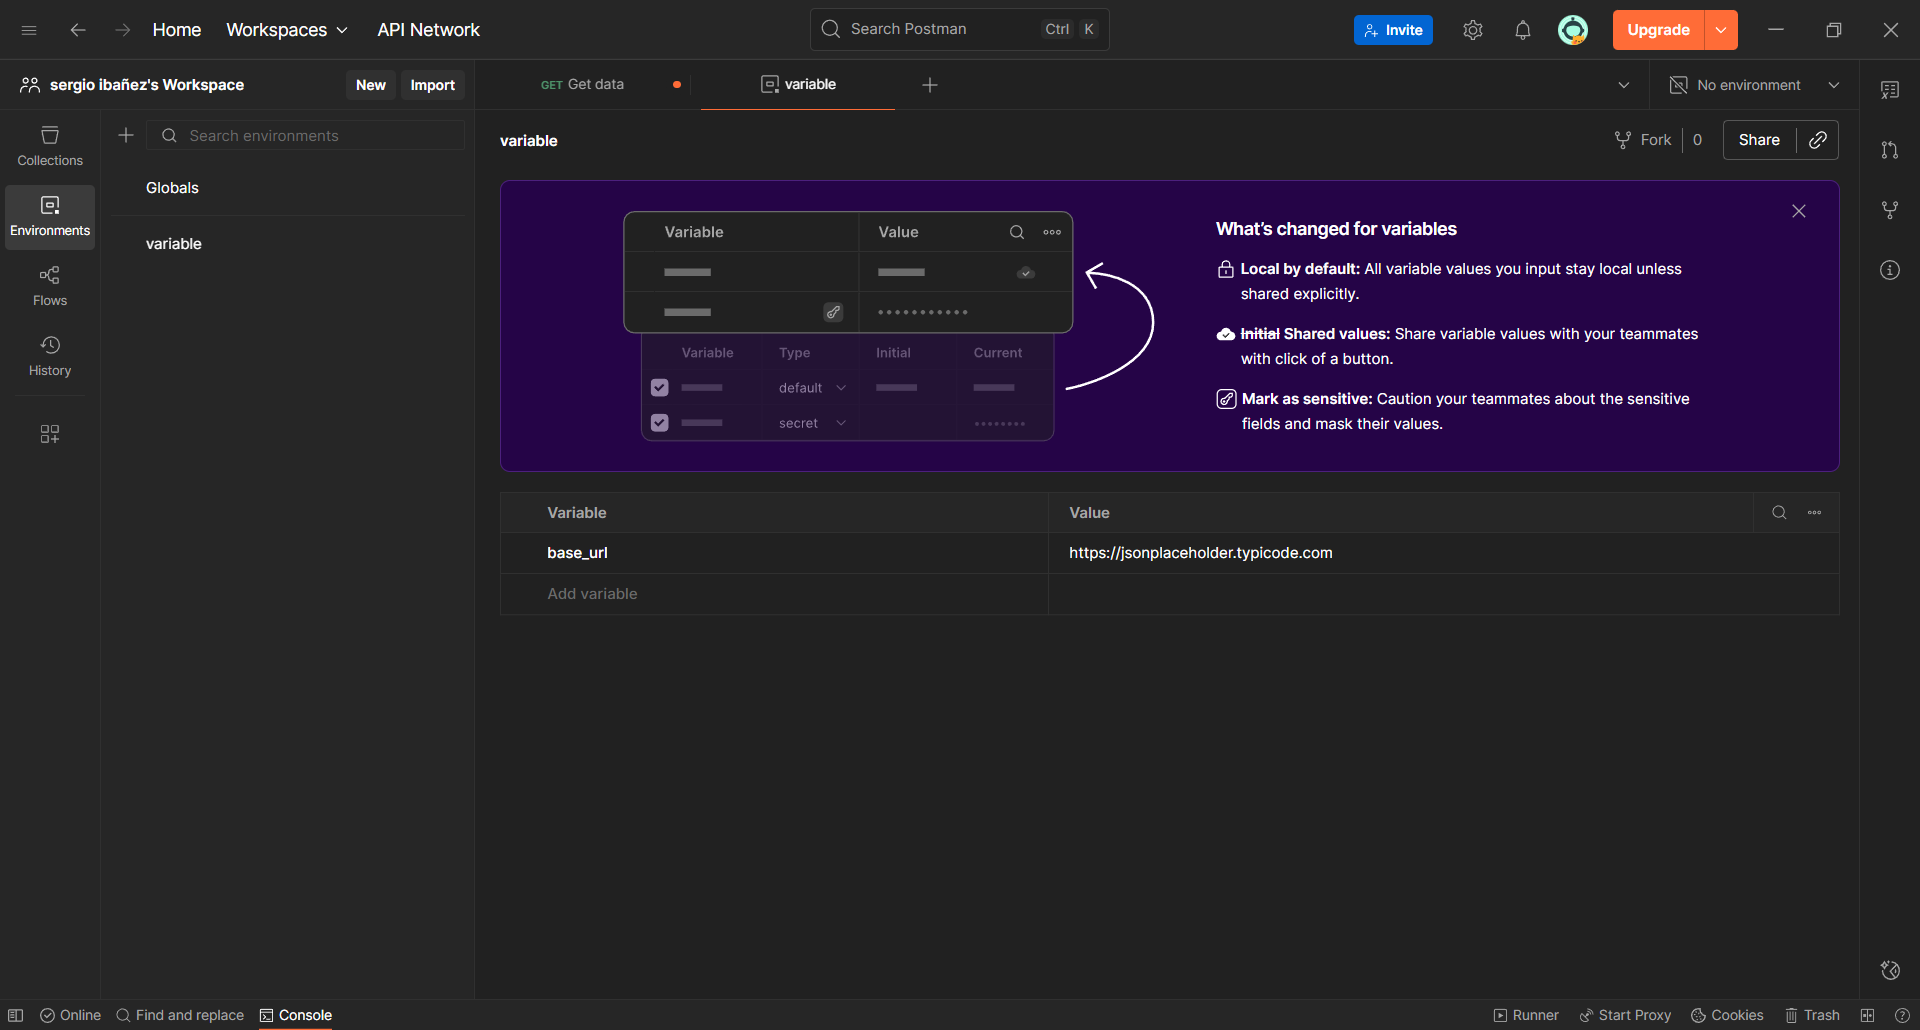
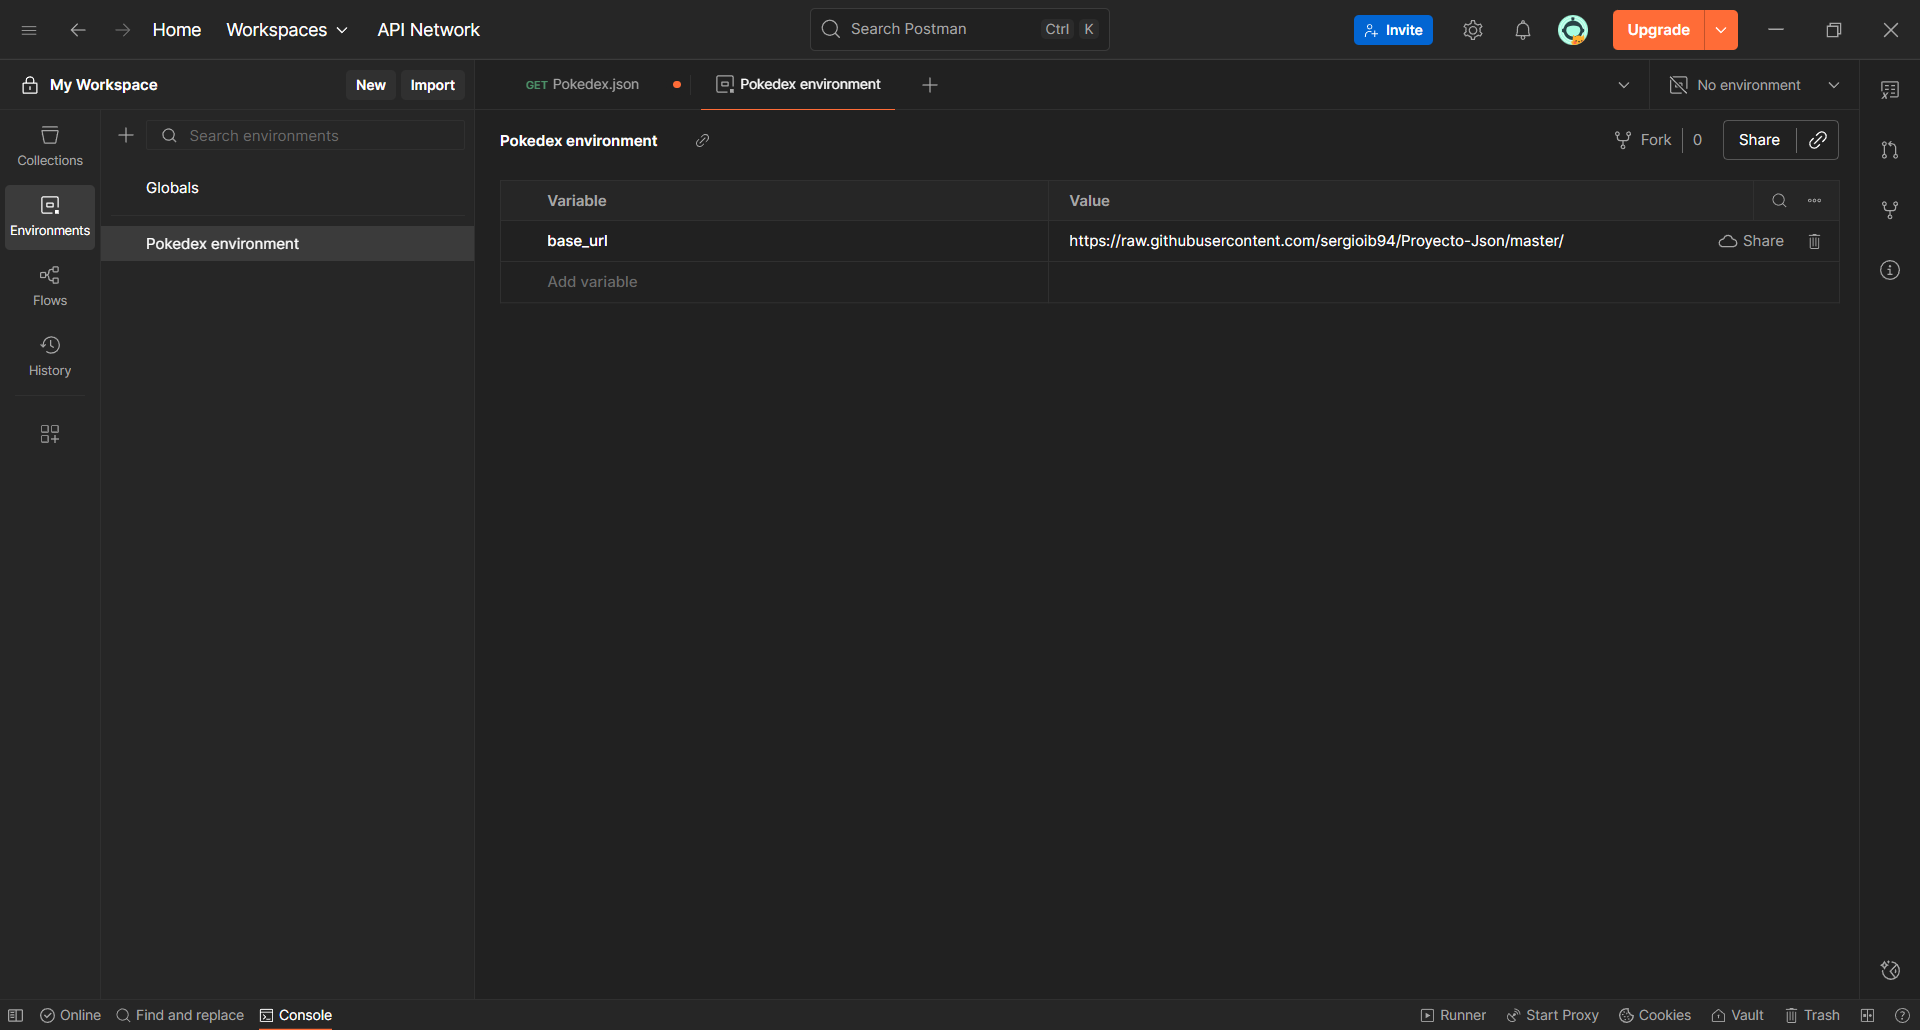
mejora de post

diff --git a/_posts/2025-10-28-Introduccion-a-Postman-I.md b/_posts/2025-10-28-Introduccion-a-Postman-I.md
@@ -142,10 +142,8 @@ A continuación se mostrara una prueba de envío de primera petición con Postma
 Los entornos permiten definir variables globales o específicas (por ejemplo, url_base o token).  
 Así puedes cambiar entre entorno de desarrollo, pruebas o producción sin modificar cada petición.
 
-
 * base_url → https://api.dev.local
 * token → abc123
-
 
 Crear entornos en Postman y seleccionar el activo antes de ejecutar.
 
@@ -158,11 +156,108 @@ Ejemplo de variables:
 
 **Crear variables**
 
+En Postman, las variables te permiten reutilizar valores (como URLs, tokens, IDs, etc.) sin tener que escribirlos una y otra vez.Así, si mañana cambias la fuente (por ejemplo, a una API o un Mock Server), solo cambias la variable, y todas tus peticiones seguirán funcionando.
+
 Haciendo uso de postman podemos crear variables de la siguiente forma
 
 * En el sidebar izquierdo accedemos al apartado environments y seleccionamos el "+"
-* Añade una nueva variable por ejemplo: (base_url → https://raw.githubusercontent.com/sergioib94/Proyecto-Json/master/pokedex.json).
-* Guarda y selecciona el entorno activo.
+* Añade una nueva variable por ejemplo: (base_url → https://raw.githubusercontent.com/sergioib94/Proyecto-Json/master).
+* Guarda y selecciona el entorno activo, en este caso el entorno creado seria "pokedex environment".
+
+![creación de variable](/assets/images/Postman/variable.PNG)
+
+![prueba de variable](/assets/images/Postman/prueba_variable.PNG)
+
+Una vez que ya sepamos como crear variables y sepamos usarlas podemos pasar a realizar una prueba en la que visualizaremos una parte del Json con visualizer. Para ello seguiremos los siguientes pasos:
+
+* Empezamos realizando una peticion GET como en el ejemplo anterior (GET {{base_url}}/pokedex.json)
+* Al realizar la peticion, nos vamos a la opcion scripts, donde nos apareceran dos apartados, pre-req y post-res.
+
+  * Pre-request → antes de enviar la petición (igual que siempre).
+  * Post-response → después de recibir la respuesta (lo que antes se llamaba “Tests”).
+
+* En post response indicaremos el siguiente scripts:
+
+~~~
+// Visualizer: muestra los 10 primeros Pokémon con estadísticas básicas
+
+// 1) Obtener los datos del JSON
+var body;
+try {
+  body = pm.response.json();
+} catch (e) {
+  body = null;
+}
+
+// 2) Si no hay datos válidos, mostrar mensaje
+if (!body || !body.pokemon) {
+  pm.visualizer.set("<div><strong>No se ha podido cargar la Pokédex.</strong></div>", {});
+} else {
+  // 3) Tomar los primeros 10 Pokémon y mapear propiedades necesarias
+  var list = body.pokemon.slice(0, 10).map(function(p) {
+    return {
+      id: (typeof p.id !== "undefined") ? p.id : "",
+      num: p.num || "",
+      name: p.name || "",
+      type: Array.isArray(p.type) ? p.type.join(", ") : (p.type || ""),
+      hp: (p.base && typeof p.base.HP !== "undefined") ? p.base.HP : "",
+      attack: (p.base && typeof p.base.Attack !== "undefined") ? p.base.Attack : "",
+      defense: (p.base && typeof p.base.Defense !== "undefined") ? p.base.Defense : "",
+      speed: (p.base && typeof p.base.Speed !== "undefined") ? p.base.Speed : "",
+      height: p.height || "",
+      weight: p.weight || ""
+    };
+  });
+
+  // 4) Plantilla HTML para la tabla (usamos comillas inversas para multilínea)
+  var template = `
+    <h3>Pokédex — Primeros 10 Pokémon</h3>
+    <table border="1" cellpadding="6" cellspacing="0" style="border-collapse:collapse;width:100%;font-family:Arial;">
+      <thead style="background:#f3f3f3;">
+        <tr>
+          <th>ID</th>
+          <th>Num</th>
+          <th>Nombre</th>
+          <th>Tipos</th>
+          <th>HP</th>
+          <th>Ataque</th>
+          <th>Defensa</th>
+          <th>Velocidad</th>
+          <th>Altura</th>
+          <th>Peso</th>
+        </tr>
+      </thead>
+      <tbody>
+        {{#each items}}
+          <tr>
+            <td>{{this.id}}</td>
+            <td>{{this.num}}</td>
+            <td>{{this.name}}</td>
+            <td>{{this.type}}</td>
+            <td>{{this.hp}}</td>
+            <td>{{this.attack}}</td>
+            <td>{{this.defense}}</td>
+            <td>{{this.speed}}</td>
+            <td>{{this.height}}</td>
+            <td>{{this.weight}}</td>
+          </tr>
+        {{/each}}
+      </tbody>
+    </table>
+  `;
+
+  // 5) Renderizar en Visualize
+  pm.visualizer.set(template, { items: list });
+}
+~~~
+
+**Nota**: La opcion Post-response, aparecerá si la version de postman que se esta usando es 11 o superior, en caso de que sea una versión inferior aparecerá la opción test en su lugar.
+
+Esto hará que visualizer muestre de forma sencilla a los 10 primeros pokemons de la pokedex.
+
+* Tras indicar el script en la seccion post-res, enviamos la petición y una vez enviada le damos a la opción visualice que mostrara a los 10 primeros pokemons de la pokedex.
+
+![test](/assets/images/Postman/test.PNG)
 
 ### Conclusión ###
 En esta primera parte has aprendido:
